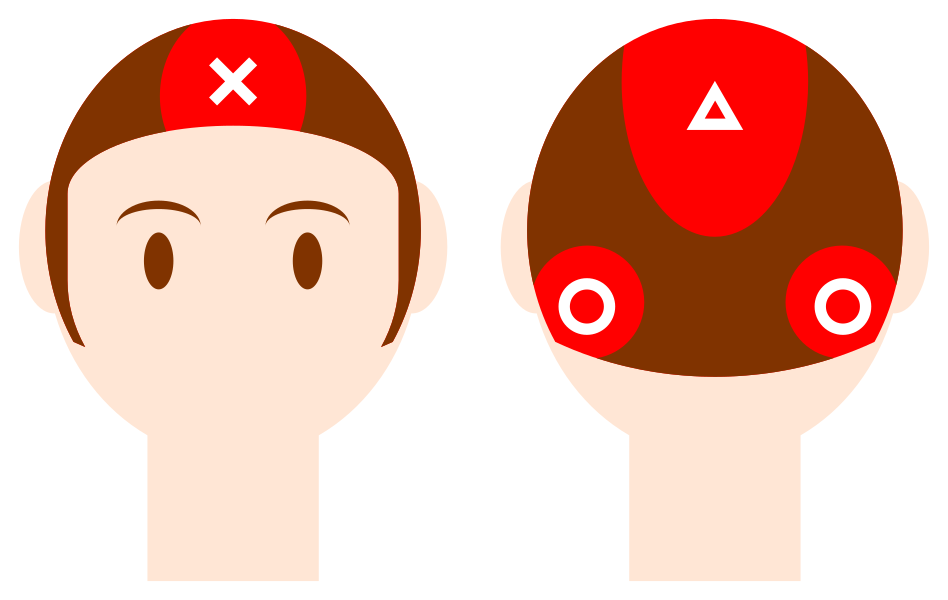
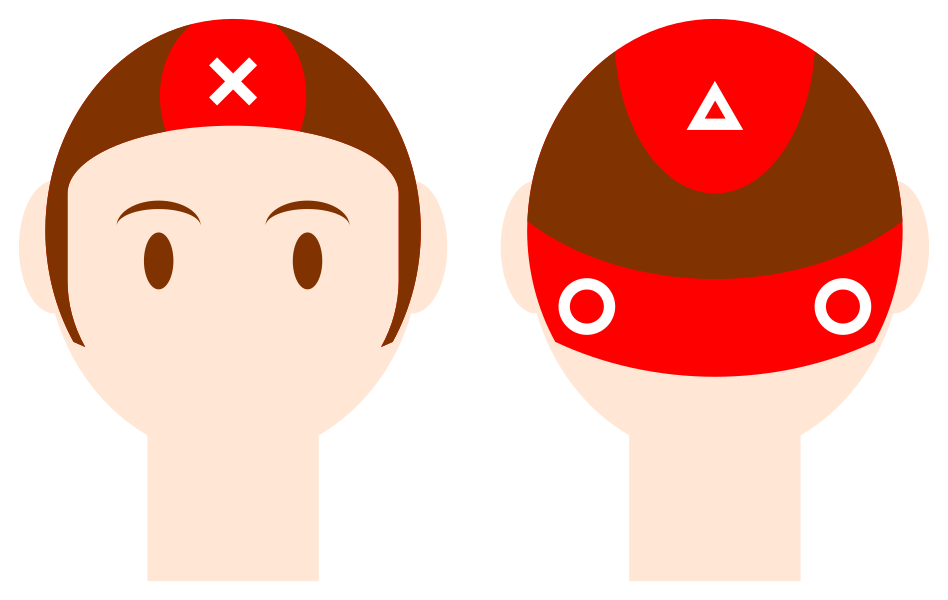
[up] 頭の低い位置ならどこでも良い説を採用。

diff --git a/_posts/2021-07-02-hair.md b/_posts/2021-07-02-hair.md
@@ -16,7 +16,7 @@ description: 受け身の際にじゃまにならない髪型について
     1. 初心者のうちは、前頭部、頭頂部、後頭部に結び目があると受け身の練習の際に畳に当たると痛いのでおすすめしません。
        特に前頭部～頭頂部（図の×の部分）に結び目を作るのは避けてください。
 
-    1. 結び目は耳の後ろのあたり（図の○の部分）に作るのが比較的じゃまになりにくくておすすめです。
+    1. 結び目は耳の後ろのあたり（図の○の部分）など、頭の低い位置に作るのが比較的じゃまになりにくくておすすめです。
 
 ## 補足情報
 
